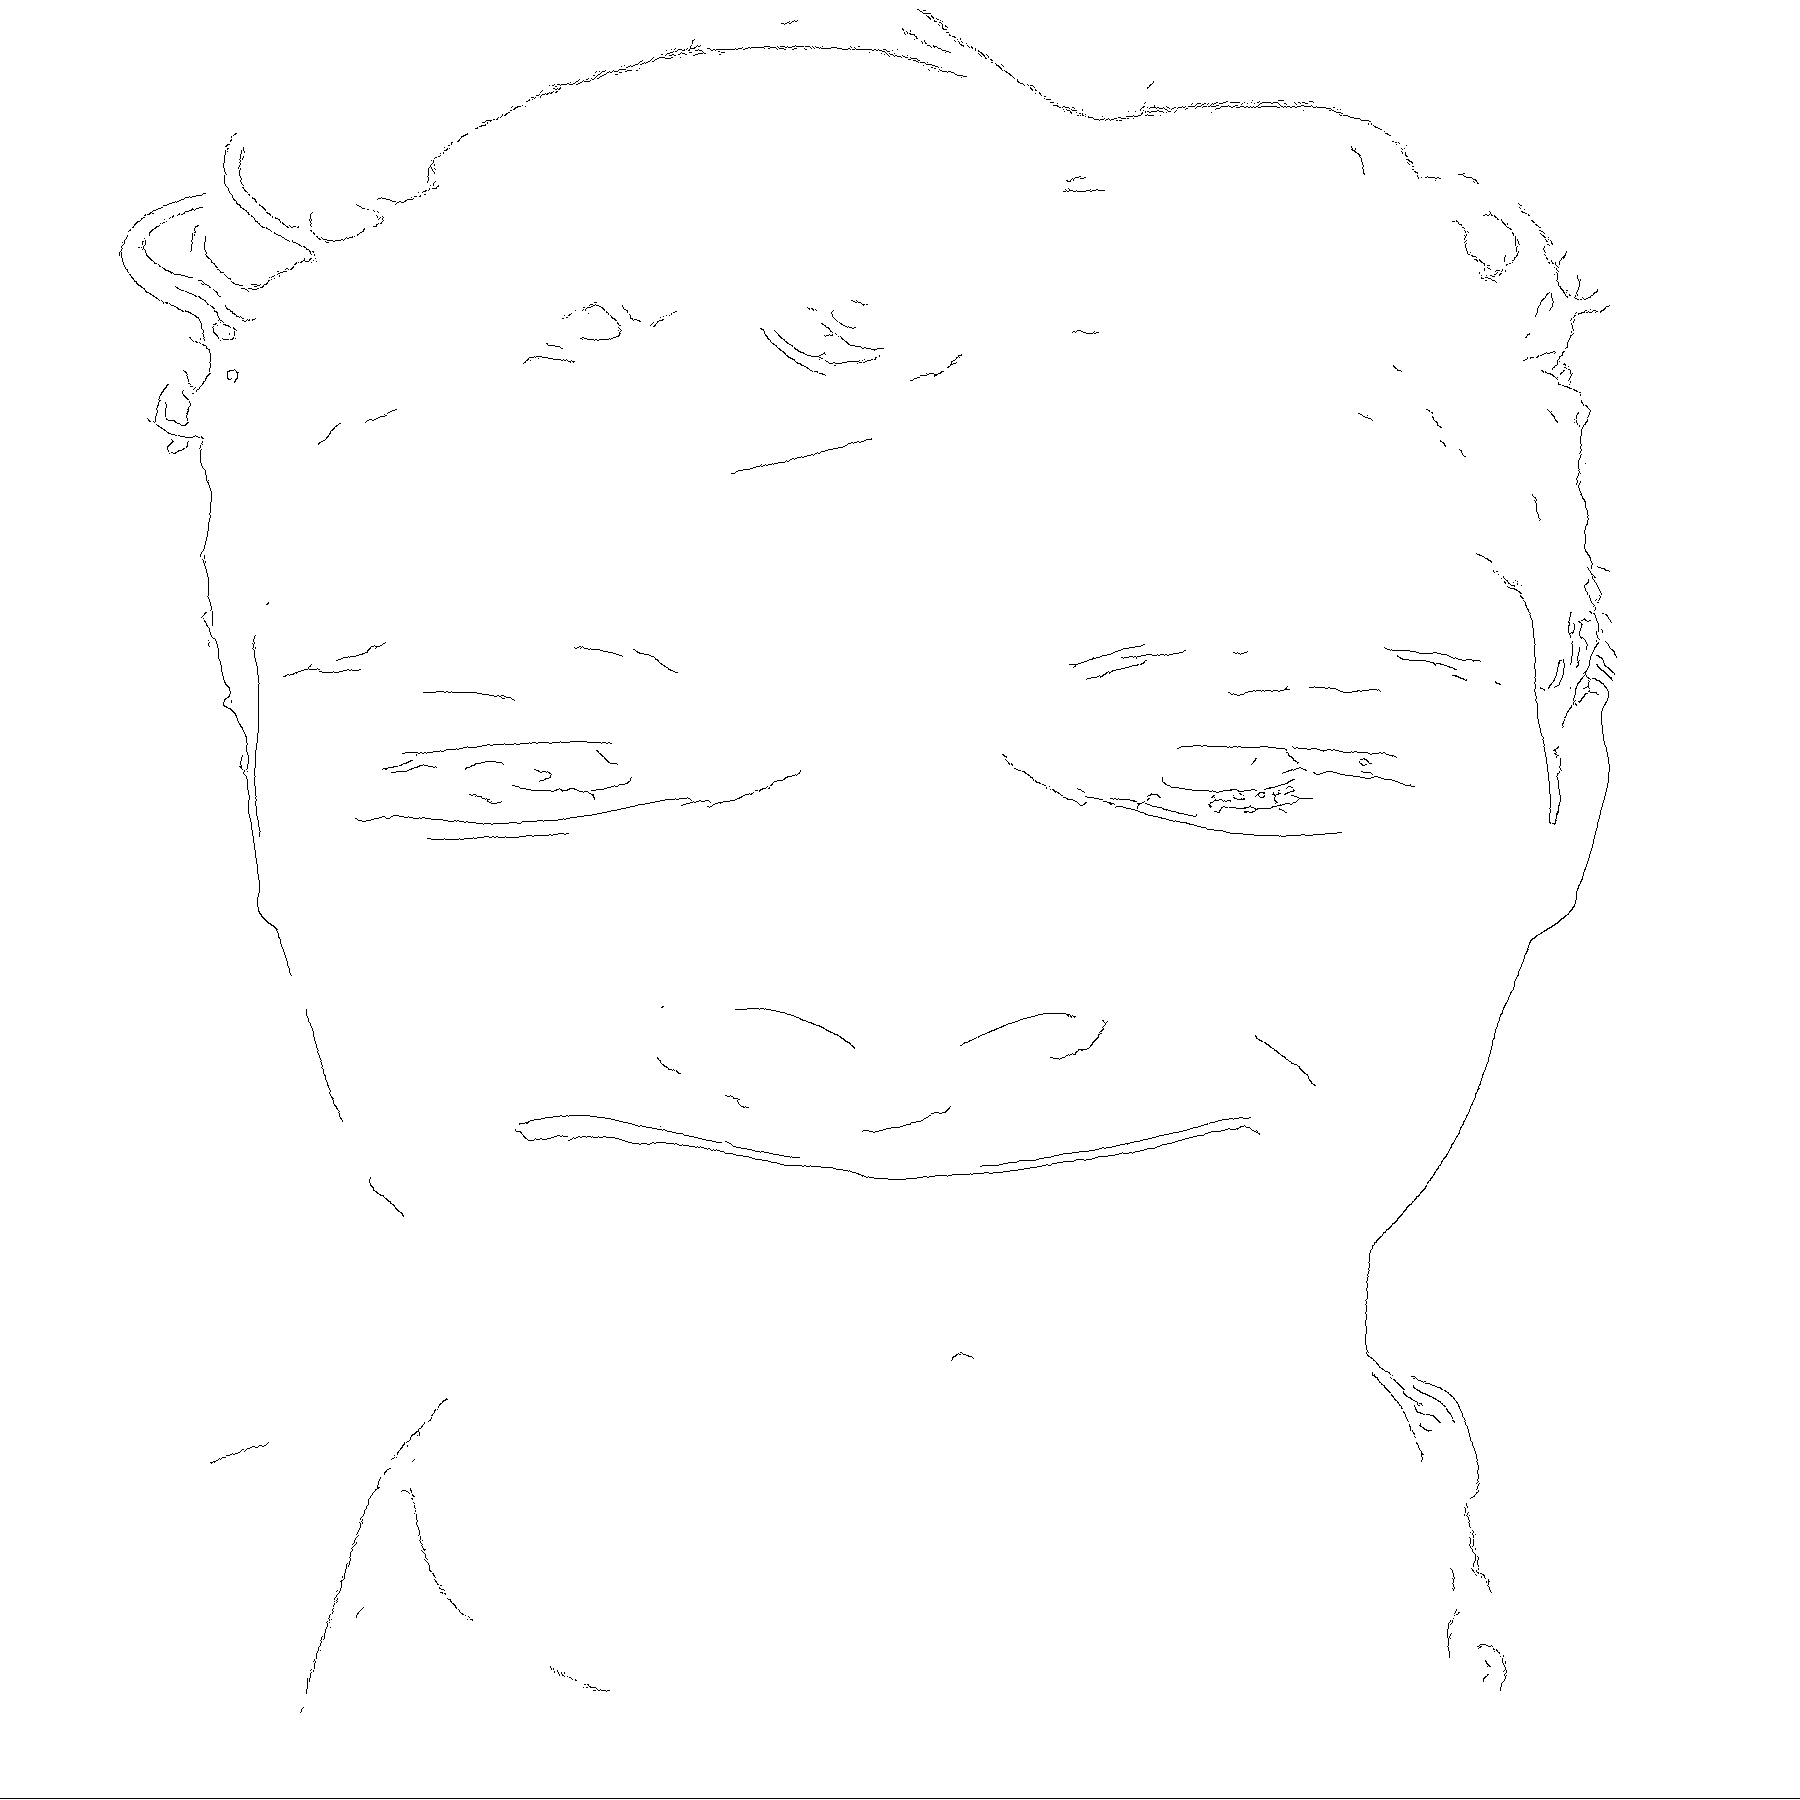
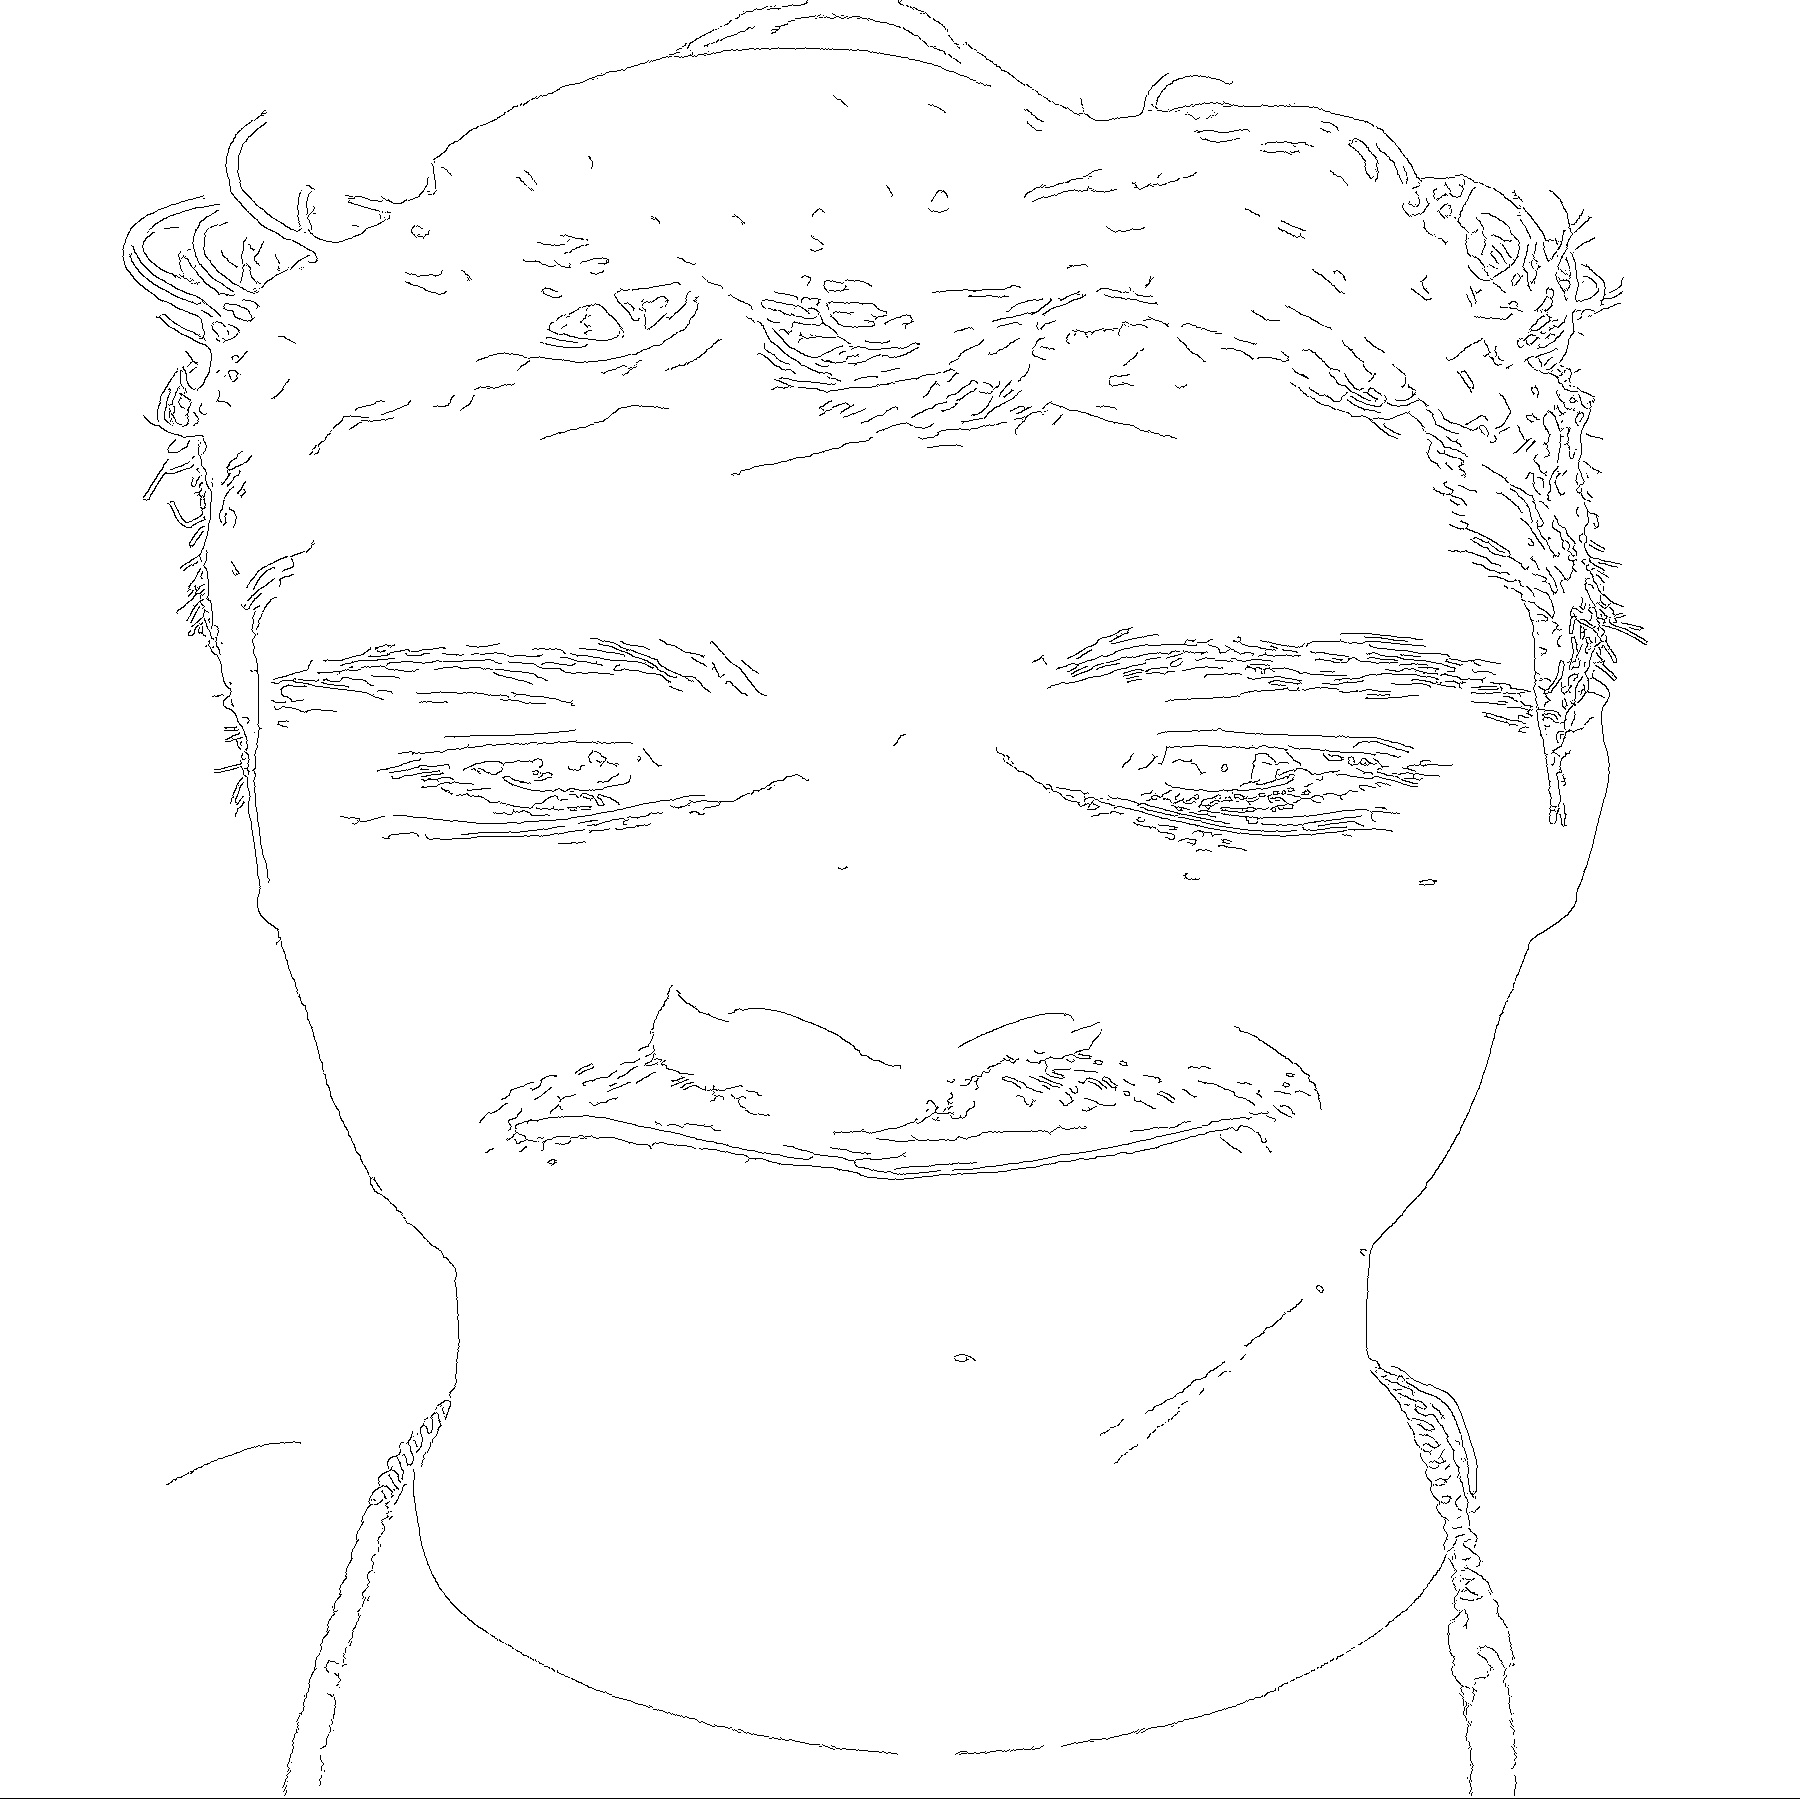
chore: made the greedy generator work

diff --git a/src/abstract_generator.py b/src/abstract_generator.py
@@ -1,6 +1,7 @@
 import numpy as np
 from PIL import Image, ImageDraw
 import math
+import cv2
 
 class AbstractGenerator:
     """Base class for creating string art.
@@ -8,17 +9,14 @@ class AbstractGenerator:
     This class handles image loading, canvas setup, and rendering.
     It's designed to be inherited by specific algorithm implementations.
     """
-    def __init__(self, image_path, num_nails=256, image_size=500):
+    def __init__(self, image_path, num_nails=256, image_size=500, extract_subject=True, remove_shadows=True):
         self.num_nails = num_nails
         self.image_size = image_size
         self.path = []
 
-        # 1. Load and prepare the image
-        with Image.open(image_path).convert("L") as img:
-            # Resize and ensure it's a square
-            resized_img = img.resize((image_size, image_size))
-            self.target_image = np.array(resized_img)
-            resized_img.save('string_art_input.png')  # Save the resized image for reference
+        # 1. Load and prepare the image with improved preprocessing
+        processed_image = self._load_and_preprocess_image(image_path, image_size, extract_subject, remove_shadows)
+        self.target_image = processed_image
 
         # 2. Create the residual image (error map)
         # We use a float dtype to allow for negative values during subtraction
@@ -28,6 +26,141 @@ class AbstractGenerator:
         self.center = (image_size // 2, image_size // 2)
         self.radius = image_size // 2 - 5 # Inset nails slightly
         self.nail_coords = self._calculate_nail_coords()
+
+    def _load_and_preprocess_image(self, image_path, image_size, extract_subject, remove_shadows):
+        """
+        Load and preprocess image with aspect ratio preservation and subject extraction.
+        
+        Args:
+            image_path: Path to input image
+            image_size: Target square size
+            extract_subject: Whether to extract subject/person from background
+            remove_shadows: Whether to reduce shadow effects
+        
+        Returns:
+            numpy array of processed grayscale image
+        """
+        # Load image and convert to grayscale
+        with Image.open(image_path).convert("L") as img:
+            original_img = np.array(img)
+        
+        # Step 1: Preserve aspect ratio - no stretching!
+        h, w = original_img.shape
+        
+        # Create square white canvas
+        canvas = np.full((image_size, image_size), 255, dtype=np.uint8)
+        
+        # Calculate scaling to fit image in canvas while preserving aspect ratio
+        scale = min(image_size / w, image_size / h)
+        new_w = int(w * scale)
+        new_h = int(h * scale)
+        
+        # Resize image maintaining aspect ratio
+        resized_img = cv2.resize(original_img, (new_w, new_h), interpolation=cv2.INTER_LANCZOS4)
+        
+        # Center the image on white canvas
+        start_x = (image_size - new_w) // 2
+        start_y = (image_size - new_h) // 2
+        canvas[start_y:start_y + new_h, start_x:start_x + new_w] = resized_img
+        
+        processed_img = canvas
+        
+        # Step 2: Remove shadows if requested
+        if remove_shadows:
+            processed_img = self._remove_shadows(processed_img)
+        
+        # Step 3: Extract subject if requested
+        if extract_subject:
+            processed_img = self._extract_subject(processed_img)
+        
+        # Save processed image for reference
+        Image.fromarray(processed_img).save('string_art_input.png')
+        
+        return processed_img
+
+    def _remove_shadows(self, img):
+        """
+        Reduce shadow effects using histogram equalization and contrast enhancement.
+        """
+        # Apply CLAHE (Contrast Limited Adaptive Histogram Equalization)
+        clahe = cv2.createCLAHE(clipLimit=2.0, tileGridSize=(8, 8))
+        enhanced = clahe.apply(img)
+        
+        # Gamma correction to brighten shadows
+        gamma = 1.2
+        inv_gamma = 1.0 / gamma
+        table = np.array([((i / 255.0) ** inv_gamma) * 255 for i in np.arange(0, 256)]).astype("uint8")
+        corrected = cv2.LUT(enhanced, table)
+        
+        return corrected
+
+    def _extract_subject(self, img):
+        """
+        Extract subject/person from background using edge-based approach that preserves facial features.
+        """
+        # Step 1: Apply bilateral filter to reduce noise while preserving edges
+        filtered = cv2.bilateralFilter(img, 9, 75, 75)
+        
+        # Step 2: Use Canny edge detection to find edges
+        edges = cv2.Canny(filtered, 50, 150, apertureSize=3)
+        
+        # Step 3: Dilate edges slightly to connect nearby edges
+        kernel = np.ones((3, 3), np.uint8)
+        edges_dilated = cv2.dilate(edges, kernel, iterations=1)
+        
+        # Step 4: Find contours from edges
+        contours, _ = cv2.findContours(edges_dilated, cv2.RETR_EXTERNAL, cv2.CHAIN_APPROX_SIMPLE)
+        
+        if contours:
+            # Step 5: Find the largest contour (likely the main subject)
+            largest_contour = max(contours, key=cv2.contourArea)
+            
+            # Only proceed if the contour is reasonably large
+            if cv2.contourArea(largest_contour) > img.shape[0] * img.shape[1] * 0.05:  # At least 5% of image
+                
+                # Step 6: Create a gentler mask using GrabCut-like approach
+                # Initialize mask
+                mask = np.zeros(img.shape[:2], np.uint8)
+                
+                # Get bounding rectangle of the largest contour
+                x, y, w, h = cv2.boundingRect(largest_contour)
+                
+                # Create initial mask: everything outside bounding rect is background
+                # Everything inside is "probably foreground"
+                mask.fill(cv2.GC_BGD)  # Background
+                mask[y:y+h, x:x+w] = cv2.GC_PR_FGD  # Probably foreground
+                
+                # Mark the contour area as definite foreground
+                cv2.fillPoly(mask, [largest_contour], cv2.GC_FGD)
+                
+                # Step 7: Use distance transform for smoother transitions
+                # Convert mask to binary for distance transform
+                binary_mask = (mask >= cv2.GC_PR_FGD).astype(np.uint8) * 255
+                
+                # Apply distance transform and normalize
+                dist_transform = cv2.distanceTransform(binary_mask, cv2.DIST_L2, 5)
+                dist_normalized = cv2.normalize(dist_transform, None, 0, 255, cv2.NORM_MINMAX).astype(np.uint8)
+                
+                # Create smooth mask with gradient falloff
+                smooth_mask = cv2.GaussianBlur(dist_normalized, (21, 21), 0)
+                
+                # Apply threshold to create final mask (more lenient than before)
+                _, final_mask = cv2.threshold(smooth_mask, 30, 255, cv2.THRESH_BINARY)
+                
+                # Step 8: Apply the mask with smooth blending
+                result = np.full_like(img, 255)  # White background
+                
+                # Use the mask to blend the original image
+                mask_float = final_mask.astype(np.float32) / 255.0
+                result = (result * (1 - mask_float) + img * mask_float).astype(np.uint8)
+                
+                return result
+            else:
+                # Contour too small, return original
+                return img
+        else:
+            # No contours found, return original image
+            return img
 
     def _calculate_nail_coords(self):
         """Calculates the (x, y) coordinates for each nail on a circle."""

diff --git a/src/greedy_generator.py b/src/greedy_generator.py
@@ -11,7 +11,7 @@ class GreedyGenerator(AbstractGenerator):
     At each step, it chooses the line that covers the most darkness
     in the current residual image.
     """
-    def generate_path(self, num_lines, line_darkness=25, min_improvement_score=10.0):
+    def generate_path(self, num_lines, line_darkness=25, min_improvement_score=10.0, save_every=20):
         """
         Generates the string path using a greedy algorithm.
 
@@ -27,7 +27,7 @@ class GreedyGenerator(AbstractGenerator):
         self.path = [current_nail]
 
         # Use tqdm for a progress bar
-        for _ in tqdm(range(num_lines), desc="Placing Strings"):
+        for iteration in tqdm(range(num_lines), desc="Placing Strings"):
             best_next_nail = -1
             max_score = -1
 
@@ -77,6 +77,10 @@ class GreedyGenerator(AbstractGenerator):
             # Move to the new nail and update the path
             current_nail = best_next_nail
             self.path.append(current_nail)
+
+            # Save progress every save_every iterations
+            if save_every > 0 and (iteration + 1) % save_every == 0:
+                self.save_progress()
         
         print(f"\nPath generation complete. Total lines: {len(self.path) - 1}")
         return self.path

diff --git a/main.py b/main.py
@@ -15,16 +15,16 @@ if __name__ == '__main__':
 
         create_outline_image('portrait.jpg', 'portrait_outline.jpg', 
                            low_threshold=25, high_threshold=50,
-                           max_blur_kernel=55, min_blur_kernel=11, 
+                           max_blur_kernel=33, min_blur_kernel=3, 
                            use_gradient_blur=True)
 
         # 1. Initialize the generator with your image
         # You can find good public domain portraits on sites like unsplash.com
-        generator = GreedyGenerator(image_path='portrait_outline.jpg', num_nails=720, image_size=500)
+        generator = GreedyGenerator(image_path='portrait.jpg', num_nails=720, image_size=1000, extract_subject=True, remove_shadows=False)
 
         # 2. Generate the path (the sequence of nails)
         # More lines = more detail, but longer processing time
-        generator.generate_path(num_lines=1000, line_darkness=30)
+        generator.generate_path(num_lines=2000, line_darkness=50, min_improvement_score=1.0)
 
         # 3. Render the final image from the path
         generator.render_image(output_path='string_art_output.png')
